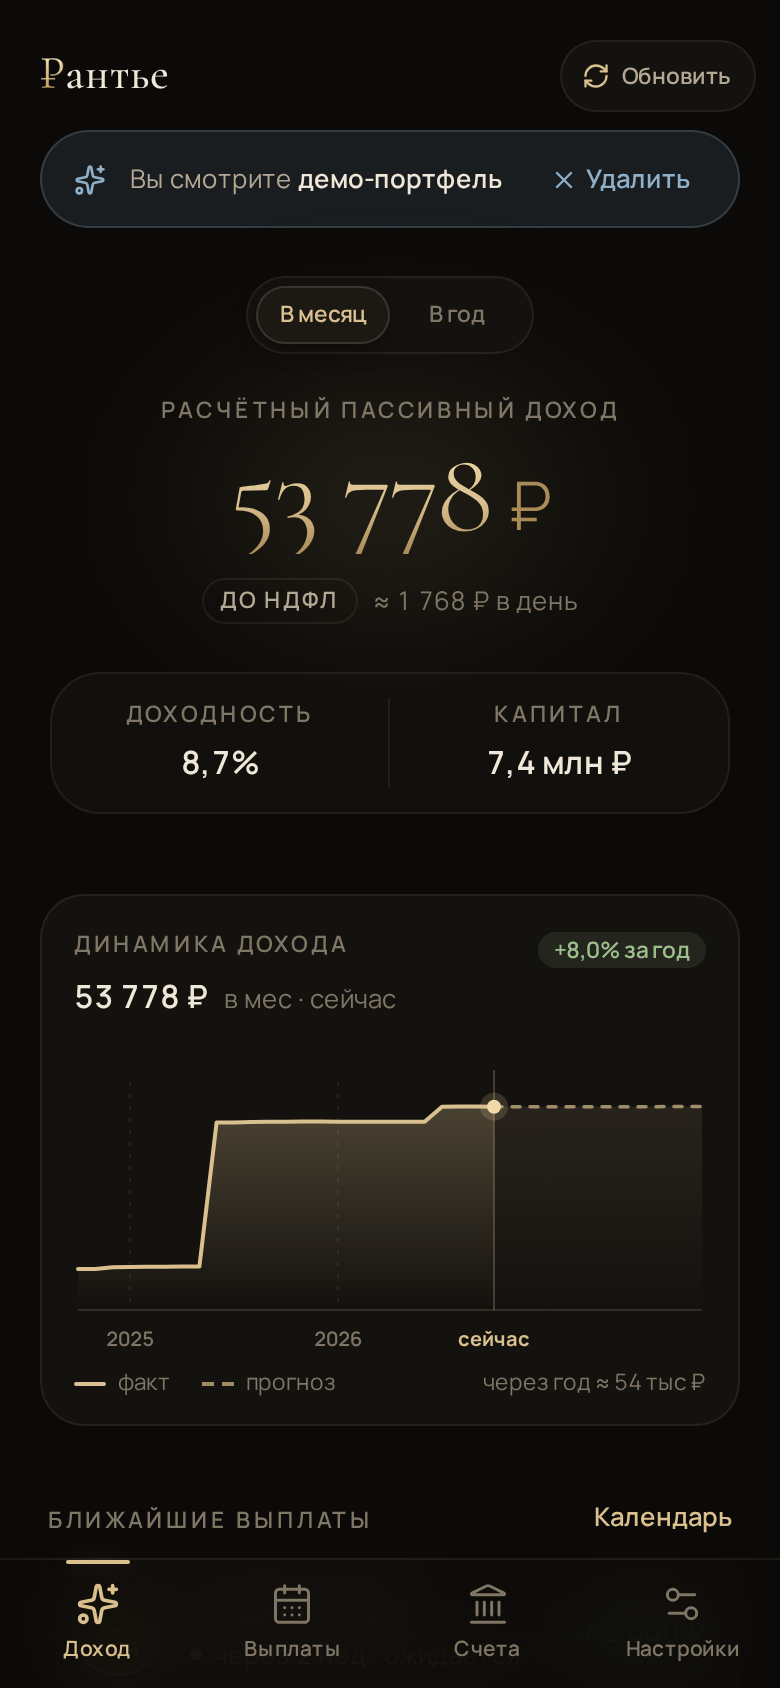
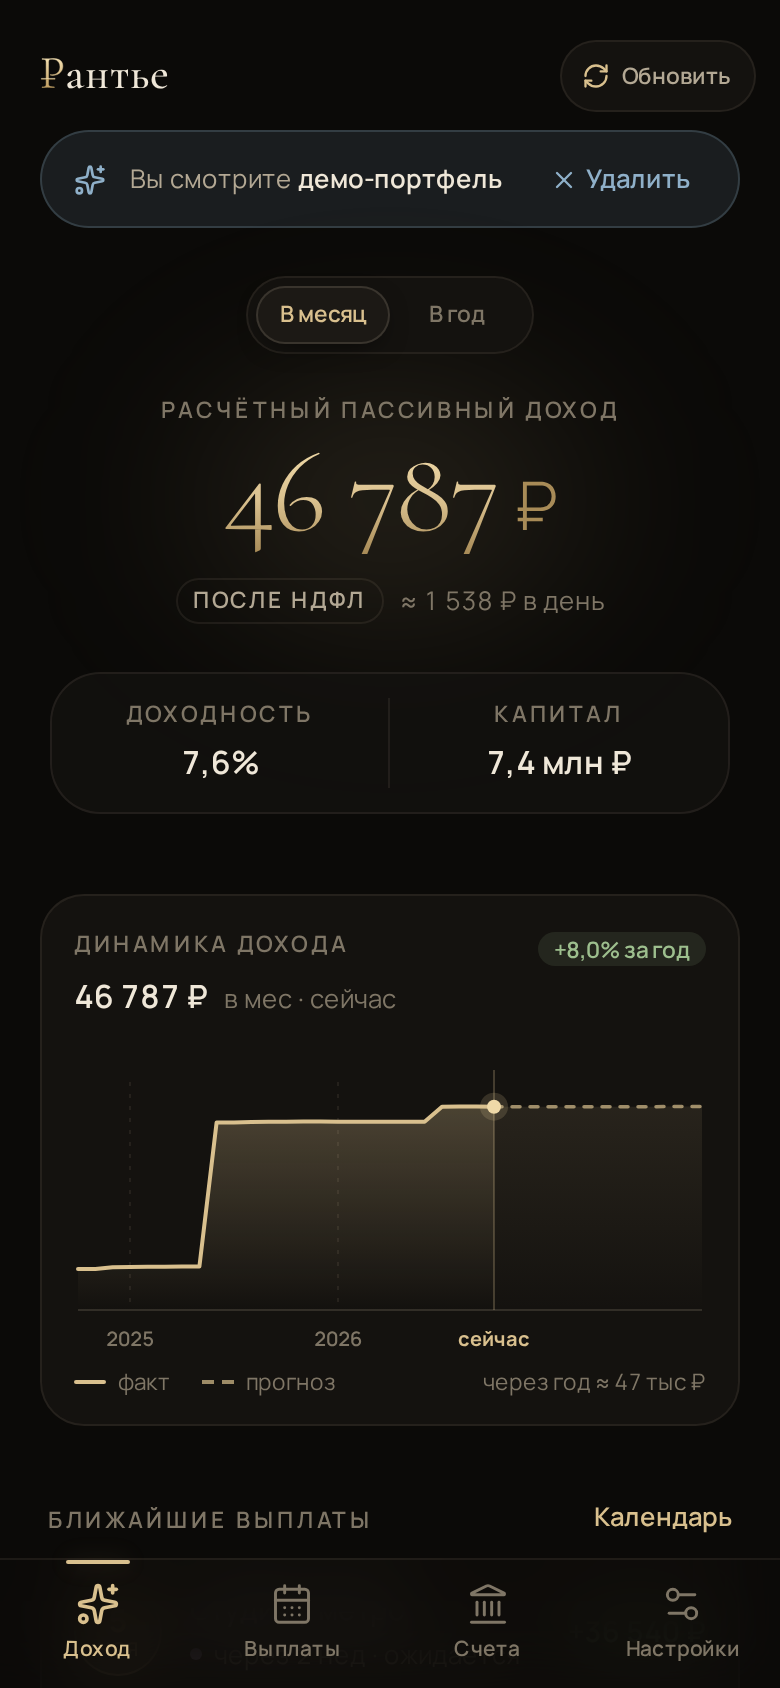
NDFL 13% by default, with a plain-language note in settings
0% overstated net income for almost everyone; 13% is what dividends, coupons
and deposit interest are taxed at for most people, and an estimate that errs
low is safer for money you plan your life on.

- getNdflRates() fills every held category with DEFAULT_NDFL_RATE (13%)
  unless the user saved a rate; a saved 0% is kept. Pure calculators are
  untouched (missing key still means 0%), so the default lives in one place.
- Settings explain when to pick 15% (investment income over 2.4 mln ₽/yr),
  4% (rent as self-employed) or 0% (tax-exempt IIS).
- Tests: default and saved-0% cases; e2e expects the after-tax hero amount.
- README screenshots refreshed.

Claude-Session: https://claude.ai/code/session_01KoxrZ7sadbgoJZtidppaXG

diff --git a/tests/services/app-settings.test.ts b/tests/services/app-settings.test.ts
@@ -1,6 +1,7 @@
 import { describe, it, expect, beforeEach } from 'vitest';
 import { db } from '@/db/database';
-import { updateAppSetting, getNdflRates, updateNdflRate } from '@/services/app-settings';
+import { updateAppSetting, getNdflRates, updateNdflRate, DEFAULT_NDFL_RATE } from '@/services/app-settings';
+import { createAssetDraft } from '@/services/asset-factory';
 
 describe('app-settings', () => {
   beforeEach(async () => {
@@ -49,6 +50,25 @@ describe('app-settings', () => {
       const rates = await getNdflRates();
       expect(rates.size).toBe(1);
       expect(rates.has('Акции')).toBe(true);
+    });
+
+    it('gives every held category 13% until the user picks a rate', async () => {
+      await db.assets.add(createAssetDraft({ type: 'Акции', name: 'Сбер', dataSource: 'manual' }));
+      await db.assets.add(createAssetDraft({ type: 'Вклады', name: 'Вклад', dataSource: 'manual' }));
+      const rates = await getNdflRates();
+      expect(DEFAULT_NDFL_RATE).toBe(13);
+      expect(rates.get('Акции')).toBe(13);
+      expect(rates.get('Вклады')).toBe(13);
+    });
+
+    it('keeps a rate the user chose, including 0%', async () => {
+      await db.assets.add(createAssetDraft({ type: 'Акции', name: 'Сбер', dataSource: 'manual' }));
+      await db.assets.add(createAssetDraft({ type: 'Недвижимость', name: 'Студия', dataSource: 'manual' }));
+      await updateNdflRate('Акции', 0);
+      await updateNdflRate('Недвижимость', 4);
+      const rates = await getNdflRates();
+      expect(rates.get('Акции')).toBe(0);
+      expect(rates.get('Недвижимость')).toBe(4);
     });
 
     it('handles custom fractional rates', async () => {

diff --git a/src/components/settings/ndfl-settings.tsx b/src/components/settings/ndfl-settings.tsx
@@ -1,7 +1,7 @@
 import { useLiveQuery } from 'dexie-react-hooks';
 import { db } from '@/db/database';
 import { useNdflRates } from '@/hooks/use-ndfl-rates';
-import { updateNdflRate } from '@/services/app-settings';
+import { DEFAULT_NDFL_RATE, updateNdflRate } from '@/services/app-settings';
 import { getTypeColor } from '@/models/account';
 import { Card, Section } from '@/components/ds/surface';
 import { NdflRateSelector } from './ndfl-rate-selector';
@@ -22,13 +22,17 @@ export function NdflSettings() {
       title="НДФЛ с дохода"
       description="Выплаты хранятся до налога. Доход и доходность считаются после применения ставки."
     >
+      <p className="mb-3 px-1 text-[length:var(--hi-text-micro)] leading-relaxed text-[var(--hi-text-3)]">
+        По умолчанию 13% — так облагаются дивиденды, купоны и проценты по вкладам у большинства. 15% — если
+        инвестиционный доход больше 2,4 млн ₽ в год, 4% — аренда как самозанятый, 0% — ИИС с налоговой льготой.
+      </p>
       <Card className="overflow-hidden px-4">
         {categories.map((type, i) => (
           <div key={type} className={i > 0 ? 'border-t border-[var(--hi-line)]' : ''}>
             <NdflRateSelector
               category={type}
               color={getTypeColor(type)}
-              rate={ndflRates.get(type) ?? 0}
+              rate={ndflRates.get(type) ?? DEFAULT_NDFL_RATE}
               onChange={(rate) => updateNdflRate(type, rate)}
             />
           </div>

diff --git a/src/services/app-settings.ts b/src/services/app-settings.ts
@@ -11,8 +11,22 @@ export async function clearAllData(): Promise<void> {
   await db.open();
 }
 
+/**
+ * Rate a category gets until the user picks one. 13% is what most people pay on dividends,
+ * coupons and deposit interest; an over-taxed estimate is safer than a gross one shown as net.
+ */
+export const DEFAULT_NDFL_RATE = 13;
+
+/**
+ * Rates for every category in the portfolio: the user's choice where saved,
+ * DEFAULT_NDFL_RATE otherwise. Pure calculators treat a missing key as 0%, so the
+ * default must be filled in here — this is the one place the app reads rates from.
+ */
 export async function getNdflRates(): Promise<Map<string, number>> {
-  const rows: { key: string; value: string }[] = await db.table('settings').toArray();
+  const [rows, types] = await Promise.all([
+    db.table('settings').toArray() as Promise<{ key: string; value: string }[]>,
+    db.assets.orderBy('type').uniqueKeys(),
+  ]);
   const map = new Map<string, number>();
   for (const row of rows) {
     if (row.key.startsWith(NDFL_PREFIX)) {
@@ -20,6 +34,9 @@ export async function getNdflRates(): Promise<Map<string, number>> {
       const rate = Number(row.value);
       if (isFinite(rate)) map.set(category, rate);
     }
+  }
+  for (const type of types) {
+    if (typeof type === 'string' && !map.has(type)) map.set(type, DEFAULT_NDFL_RATE);
   }
   return map;
 }

diff --git a/tests/e2e/smoke.spec.ts b/tests/e2e/smoke.spec.ts
@@ -136,5 +136,7 @@ test('mobile manual flow supports foreign currency asset and payment', async ({ 
 
   await page.goto('/');
   await expect(page.getByText(nb('18 тыс ₽'))).toBeVisible();
-  await expect(page.getByTestId('hero-amount')).toHaveText(nb('180'));
+  // 12 USD × 2 × 90 ₽ = 2 160 ₽ a year → 180 ₽ a month gross; the default 13% NDFL leaves 157 ₽.
+  await expect(page.getByTestId('hero-amount')).toHaveText(nb('157'));
+  await expect(page.getByText('после НДФЛ')).toBeVisible();
 });

diff --git a/CLAUDE.md b/CLAUDE.md
@@ -36,7 +36,7 @@ MOEX API / Import files → services/ (pure parsing) → Dexie DB → useLiveQue
 - **`src/components/ds/`** — the design system: `Button`/`IconButton`, `Card`/`Section`/`ListRow`/`Stat`/`EmptyState`/`AssetAvatar`, `Badge`/`SourceBadge`, `Segmented`, `BottomSheet` (Radix dialog), `Field`/`TextInput`/`SelectInput` + `parseDecimal`, `Hint` (inline dismissible coach mark), `BrandMark`/`Wordmark`, `FeedbackProvider` → `useFeedback()` for `toast()` and promise-based `confirm()`. Never use `window.confirm`/`alert`.
 - **`src/components/onboarding/welcome.tsx`** — first-launch welcome slides ending with Import / Manual / Demo. Persistence for welcome + hints lives in `src/lib/hints.ts` (`rt-welcome-done`, `rt-hint-*`).
 - **Backup reminder & privacy** — `src/lib/backup-reminder.ts` (pure `shouldRemindBackup`, dates in `rt-last-backup` / `rt-backup-snooze`), `src/lib/download-backup.ts` (the one place that saves a backup file), `useBackupReminder()` drives the nudge on the main page. `src/components/settings/privacy-card.tsx` states who sees the portfolio — keep it true to the code: the only network calls are MOEX ISS and heroincome-data on GitHub, carrying tickers/ISINs only.
-- **NDFL labels** — "после НДФЛ" is shown only when a rate > 0 is set for the categories in view; with 0% the UI says "до НДФЛ" (`NetOfTaxBadge taxed`, `IncomeHero taxed`).
+- **NDFL labels** — "после НДФЛ" is shown only when the rate for the categories in view is > 0 (13% by default); when the user sets 0% the UI says "до НДФЛ" (`NetOfTaxBadge taxed`, `IncomeHero taxed`).
 - **`src/components/ui/`** — shadcn-generated components. Do not edit by hand; use `npx shadcn@latest add <component>`. (`transition-link.tsx` is ours.)
 
 ### Source-aware income model
@@ -68,7 +68,7 @@ Dividend/distribution history uses source priority: `dohod > moex` for stocks an
 
 ### NDFL tax
 
-Per-category tax rates stored in Dexie `settings` table with `ndfl-{category}` keys. `useNdflRates()` hook provides reactive `Map<string, number>`. Tax multiplier `(1 - rate/100)` applied to income in `usePortfolioStats`, `asset-detail-page`, `category-page`. Settings UI in `src/components/settings/ndfl-rate-selector.tsx`.
+Per-category tax rates stored in Dexie `settings` table with `ndfl-{category}` keys. `getNdflRates()` fills every category held with `DEFAULT_NDFL_RATE` (13%) until the user picks a rate — pure calculators treat a missing key as 0%, so the default lives only there. `useNdflRates()` hook provides reactive `Map<string, number>`. Tax multiplier `(1 - rate/100)` applied to income in `usePortfolioStats`, `asset-detail-page`, `category-page`. Settings UI in `src/components/settings/ndfl-rate-selector.tsx`.
 
 ### Navigation & View Transitions
 
